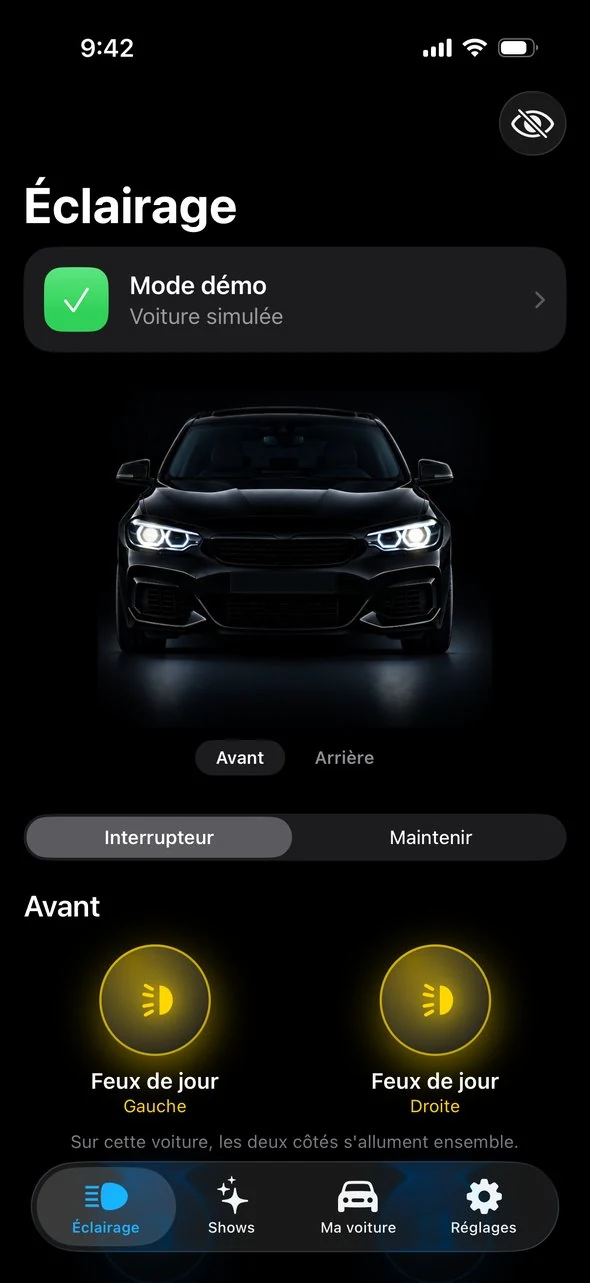
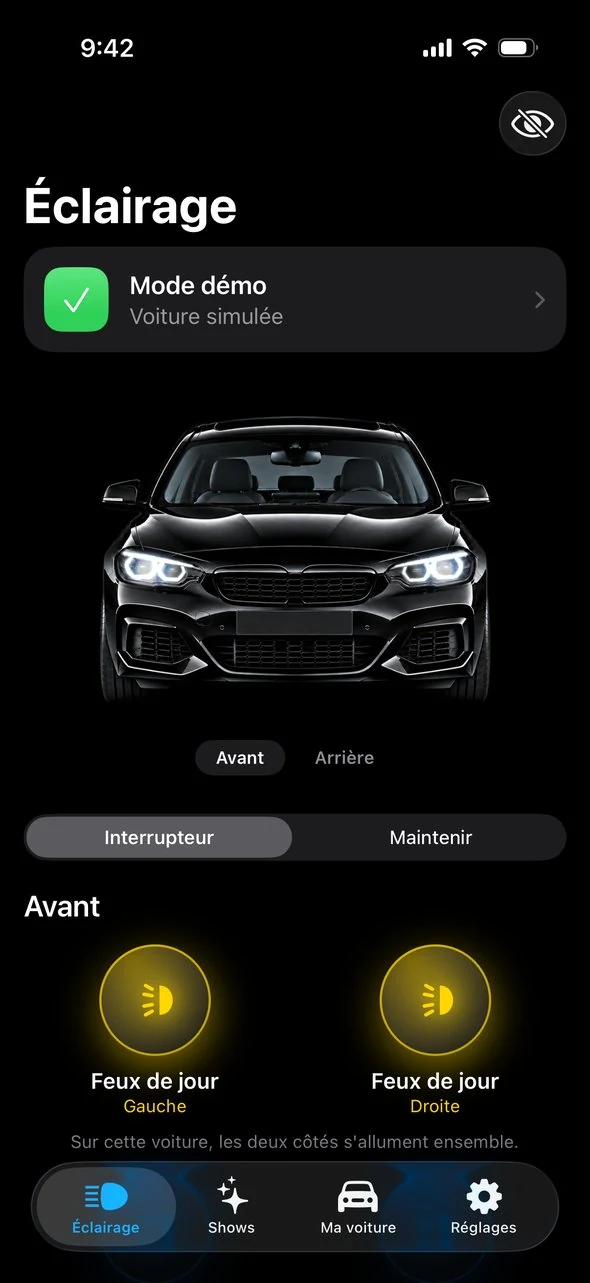
Captures de l'app à jour

Changed region(s): [[0.1525, 0.3118, 0.8542, 0.5612]]

diff --git a/index.html b/index.html
@@ -8,7 +8,7 @@
 <div class="demo"><div class="stage"><div class="car" role="img" aria-label="Voiture vue de face"><img class="base" src="assets/car/photo-front-off.webp?v=a5b0f169" alt=""><img class="lamp" data-id="f:drl-screenLeft" src="assets/car/photo-front-drl-screenLeft.jpg?v=72bc1099" alt="" decoding="async"><img class="lamp" data-id="f:drl-screenRight" src="assets/car/photo-front-drl-screenRight.jpg?v=9e6c1c24" alt="" decoding="async"><img class="lamp" data-id="f:low-screenLeft" src="assets/car/photo-front-low-screenLeft.jpg?v=c7bbe0fc" alt="" decoding="async"><img class="lamp" data-id="f:low-screenRight" src="assets/car/photo-front-low-screenRight.jpg?v=8be888bc" alt="" decoding="async"><img class="lamp" data-id="f:high-screenLeft" src="assets/car/photo-front-high-screenLeft.jpg?v=64660b8b" alt="" decoding="async"><img class="lamp" data-id="f:high-screenRight" src="assets/car/photo-front-high-screenRight.jpg?v=4de06d04" alt="" decoding="async"><img class="lamp" data-id="f:fog-screenLeft" src="assets/car/photo-front-fog-screenLeft.jpg?v=b853a492" alt="" decoding="async"><img class="lamp" data-id="f:fog-screenRight" src="assets/car/photo-front-fog-screenRight.jpg?v=548866b0" alt="" decoding="async"><img class="lamp" data-id="f:indicator-screenLeft" src="assets/car/photo-front-indicator-screenLeft.jpg?v=72b0d146" alt="" decoding="async"><img class="lamp" data-id="f:indicator-screenRight" src="assets/car/photo-front-indicator-screenRight.jpg?v=b08e6cd4" alt="" decoding="async"><img class="lamp" data-id="f:interior" src="assets/car/photo-front-interior.jpg?v=55bd01a7" alt="" decoding="async"></div><div class="car" role="img" aria-label="Voiture vue de dos"><img class="base" src="assets/car/photo-rear-off.webp?v=ff8c7cd8" alt=""><img class="lamp" data-id="r:tail-screenLeft" src="assets/car/photo-rear-tail-screenLeft.jpg?v=e7f3bf3d" alt="" decoding="async"><img class="lamp" data-id="r:tail-screenRight" src="assets/car/photo-rear-tail-screenRight.jpg?v=f12be747" alt="" decoding="async"><img class="lamp" data-id="r:indicator-screenLeft" src="assets/car/photo-rear-indicator-screenLeft.jpg?v=801bcd83" alt="" decoding="async"><img class="lamp" data-id="r:indicator-screenRight" src="assets/car/photo-rear-indicator-screenRight.jpg?v=35f259fb" alt="" decoding="async"><img class="lamp" data-id="r:reverse-screenLeft" src="assets/car/photo-rear-reverse-screenLeft.jpg?v=c3c540be" alt="" decoding="async"><img class="lamp" data-id="r:reverse-screenRight" src="assets/car/photo-rear-reverse-screenRight.jpg?v=d636bf31" alt="" decoding="async"><img class="lamp" data-id="r:brake" src="assets/car/photo-rear-brake.jpg?v=8d4208c7" alt="" decoding="async"><img class="lamp" data-id="r:fog" src="assets/car/photo-rear-fog.jpg?v=1d9a133c" alt="" decoding="async"><img class="lamp" data-id="r:interior" src="assets/car/photo-rear-interior.jpg?v=846085b4" alt="" decoding="async"></div><canvas class="fx" aria-hidden="true"></canvas></div><div class="pads"><button class="pbtn" data-l="drl" style="--c:#ffd60a" aria-pressed="false"><span class="pp"><svg viewBox="0 0 32 32" width="26" height="26" fill="none" stroke="currentColor" stroke-width="2.4" stroke-linecap="round" stroke-linejoin="round"><path d="M19 6c5.5 0 9 4.5 9 10s-3.5 10-9 10z" fill="currentColor"/><path d="M14 8.5 9.5 6M14 13 8.5 12M14 19 8.5 20M14 23.5 9.5 26"/></svg></span><span class="pl">Feux de jour</span></button><button class="pbtn" data-l="low" style="--c:#0a84ff" aria-pressed="false"><span class="pp"><svg viewBox="0 0 32 32" width="26" height="26" fill="none" stroke="currentColor" stroke-width="2.4" stroke-linecap="round" stroke-linejoin="round"><path d="M19 6c5.5 0 9 4.5 9 10s-3.5 10-9 10z" fill="currentColor"/><path d="M14 9 5 12M14 14.5 5 17.5M14 20 5 23"/></svg></span><span class="pl">Croisement</span></button><button class="pbtn" data-l="high" style="--c:#0a84ff" aria-pressed="false"><span class="pp"><svg viewBox="0 0 32 32" width="26" height="26" fill="none" stroke="currentColor" stroke-width="2.4" stroke-linecap="round" stroke-linejoin="round"><path d="M19 6c5.5 0 9 4.5 9 10s-3.5 10-9 10z" fill="currentColor"/><path d="M14 10H4M14 16H4M14 22H4"/></svg></span><span class="pl">Route</span></button><button class="pbtn" data-l="fog" style="--c:#ffd60a" aria-pressed="false"><span class="pp"><svg viewBox="0 0 32 32" width="26" height="26" fill="none" stroke="currentColor" stroke-width="2.4" stroke-linecap="round" stroke-linejoin="round"><path d="M19 6c5.5 0 9 4.5 9 10s-3.5 10-9 10z" fill="currentColor"/><path d="M14 10 4 12M14 16 4 18M14 22 4 24"/><path d="M9.5 6q2.5 3 0 6t0 6 0 6 0 6" stroke-width="2"/></svg></span><span class="pl">Antibrouillard</span></button><button class="pbtn" data-l="indL" style="--c:#ff9f0a" aria-pressed="false"><span class="pp"><svg viewBox="0 0 32 32" width="26" height="26" fill="none" stroke="currentColor" stroke-width="2.4" stroke-linecap="round" stroke-linejoin="round"><path d="M4 16 14 6v6h14v8H14v6z" fill="currentColor"/></svg></span><span class="pl">Clignotant G</span></button><button class="pbtn" data-l="indR" style="--c:#ff9f0a" aria-pressed="false"><span class="pp"><span style="display:inline-flex;transform:scaleX(-1)"><svg viewBox="0 0 32 32" width="26" height="26" fill="none" stroke="currentColor" stroke-width="2.4" stroke-linecap="round" stroke-linejoin="round"><path d="M4 16 14 6v6h14v8H14v6z" fill="currentColor"/></svg></span></span><span class="pl">Clignotant D</span></button><button class="pbtn" data-l="hazard" style="--c:#ff9f0a" aria-pressed="false"><span class="pp"><svg viewBox="0 0 32 32" width="26" height="26" fill="none" stroke="currentColor" stroke-width="2.4" stroke-linecap="round" stroke-linejoin="round"><path d="M16 3.5 29 27H3z"/><path d="M16 12.5 22.2 23H9.8z"/></svg></span><span class="pl">Warning</span></button><button class="pbtn" data-l="tail" style="--c:#ff453a" aria-pressed="false"><span class="pp"><svg viewBox="0 0 32 32" width="26" height="26" fill="none" stroke="currentColor" stroke-width="2.4" stroke-linecap="round" stroke-linejoin="round"><rect x="4" y="10" width="24" height="12" rx="4"/><rect x="8" y="14" width="16" height="4" rx="2" fill="currentColor"/></svg></span><span class="pl">Feux arrière</span></button><button class="pbtn" data-l="brake" style="--c:#ff453a" aria-pressed="false"><span class="pp"><svg viewBox="0 0 32 32" width="26" height="26" fill="none" stroke="currentColor" stroke-width="2.4" stroke-linecap="round" stroke-linejoin="round"><rect x="4" y="11" width="24" height="12" rx="4" fill="currentColor"/><path d="M9 6.5 7.5 4M16 6V3M23 6.5 24.5 4"/></svg></span><span class="pl">Stop</span></button><button class="pbtn" data-l="reverse" style="--c:#aeaeb2" aria-pressed="false"><span class="pp"><svg viewBox="0 0 32 32" width="26" height="26" fill="none" stroke="currentColor" stroke-width="2.4" stroke-linecap="round" stroke-linejoin="round"><rect x="5" y="5" width="22" height="22" rx="6"/><path d="M12.5 22.5v-13h5a3.8 3.8 0 0 1 0 7.6h-5M17.5 17l3.5 5.5" stroke-width="2.6"/></svg></span><span class="pl">Recul</span></button><button class="pbtn" data-l="inside" style="--c:#bfd9ff" aria-pressed="false"><span class="pp"><svg viewBox="0 0 32 32" width="26" height="26" fill="none" stroke="currentColor" stroke-width="2.4" stroke-linecap="round" stroke-linejoin="round"><path d="M5 9h22"/><path d="M9 9.5h14a7 7 0 0 1-14 0z" fill="currentColor"/><path d="M16 21v5M10 19.5l-2.5 4M22 19.5l2.5 4"/></svg></span><span class="pl">Intérieur</span></button><div class="showrow"><div class="sh">Shows</div><div class="shpads"><button class="pbtn" data-show="pulsation" style="--c:#ff9f0a" aria-pressed="false"><span class="pp"><svg viewBox="0 0 32 32" width="28" height="28" fill="none" stroke="currentColor" stroke-width="2.4" stroke-linecap="round" stroke-linejoin="round"><path d="M3 16h6l3-7 4.5 15 3.5-10 2 2h7"/></svg></span><span class="pl">Pulsation</span></button><button class="pbtn" data-show="double" style="--c:#0a84ff" aria-pressed="false"><span class="pp"><svg viewBox="0 0 32 32" width="28" height="28" fill="none" stroke="currentColor" stroke-width="2.4" stroke-linecap="round" stroke-linejoin="round"><path d="M11 7l-5 9h4.5l-1.5 7 5.5-9.5h-4.5z" fill="currentColor"/><path d="M21 7l-5 9h4.5l-1.5 7 5.5-9.5h-4.5z" fill="currentColor"/></svg></span><span class="pl">Double flash</span></button><button class="pbtn" data-show="bienvenue" style="--c:#30d158" aria-pressed="false"><span class="pp"><svg viewBox="0 0 32 32" width="28" height="28" fill="none" stroke="currentColor" stroke-width="2.4" stroke-linecap="round" stroke-linejoin="round"><path d="M5 22v-6l3-6h16l3 6v6z"/><circle cx="10" cy="17" r="2" fill="currentColor"/><circle cx="22" cy="17" r="2" fill="currentColor"/><path d="M6.5 22v3M25.5 22v3M16 2v3M10 4l1.5 2M22 4l-1.5 2"/></svg></span><span class="pl">Bienvenue</span></button><button class="pbtn" data-show="hante" data-theme-only="halloween" style="--c:#ff7a00" aria-pressed="false" hidden><span class="pp"><svg viewBox="0 0 32 32" width="28" height="28" fill="none" stroke="currentColor" stroke-width="2.4" stroke-linejoin="round"><path d="M7 28V14a9 9 0 0 1 18 0v14l-3-2.5-3 2.5-3-2.5-3 2.5-3-2.5z" fill="currentColor" fill-opacity=".25"/><circle cx="12.5" cy="14" r="1.8" fill="currentColor"/><circle cx="19.5" cy="14" r="1.8" fill="currentColor"/></svg></span><span class="pl">Hanté</span></button><button class="pbtn" data-show="guirlande" data-theme-only="noel" style="--c:#ff453a" aria-pressed="false" hidden><span class="pp"><svg viewBox="0 0 32 32" width="28" height="28" fill="currentColor"><path d="M16 3l2.6 7.4L26 13l-7.4 2.6L16 23l-2.6-7.4L6 13l7.4-2.6z"/><path d="M25 19l1.2 3.3 3.3 1.2-3.3 1.2L25 28l-1.2-3.3-3.3-1.2 3.3-1.2z"/><path d="M7 20l.9 2.4 2.4.9-2.4.9L7 26.6l-.9-2.4-2.4-.9 2.4-.9z"/></svg></span><span class="pl">Guirlande</span></button><button class="pbtn" data-show="ruban" data-theme-only="octobre-rose" style="--c:#ff3796" aria-pressed="false" hidden><span class="pp"><svg viewBox="0 0 32 32" width="28" height="28" fill="none" stroke="currentColor" stroke-width="2.6" stroke-linecap="round" stroke-linejoin="round"><path d="M12 29l7-12c2-3.5 2.5-6 1-8.5a4.6 4.6 0 0 0-8 0c-1.5 2.5-1 5 1 8.5l7 12"/></svg></span><span class="pl">Ruban</span></button><button class="pbtn" data-show="printemps" data-theme-only="paques" style="--c:#ff96be" aria-pressed="false" hidden><span class="pp"><svg viewBox="0 0 32 32" width="28" height="28" fill="currentColor"><ellipse cx="16" cy="9.5" rx="4.2" ry="6" transform="rotate(0 16 16)"/><ellipse cx="16" cy="9.5" rx="4.2" ry="6" transform="rotate(72 16 16)"/><ellipse cx="16" cy="9.5" rx="4.2" ry="6" transform="rotate(144 16 16)"/><ellipse cx="16" cy="9.5" rx="4.2" ry="6" transform="rotate(216 16 16)"/><ellipse cx="16" cy="9.5" rx="4.2" ry="6" transform="rotate(288 16 16)"/><circle cx="16" cy="16" r="3.2" fill="#1c1c1e"/></svg></span><span class="pl">Printemps</span></button><button class="pbtn" data-show="compte" data-theme-only="nouvel-an" style="--c:#ffc43c" aria-pressed="false" hidden><span class="pp"><svg viewBox="0 0 32 32" width="28" height="28" fill="none" stroke="currentColor" stroke-width="2.4" stroke-linecap="round"><circle cx="16" cy="17" r="11"/><path d="M16 11v6l4 3M13 3h6"/><path d="M26 7l2-2"/></svg></span><span class="pl">Compte à rebours</span></button><button class="pbtn" data-show="coeur" data-theme-only="saint-valentin" style="--c:#ff2d55" aria-pressed="false" hidden><span class="pp"><svg viewBox="0 0 32 32" width="28" height="28" fill="currentColor"><path d="M16 27C9 22.5 4 17.5 4 11.5C4 7.5 7 5 10 5C13 5 15 7 16 9C17 7 19 5 22 5C25 5 28 7.5 28 11.5C28 17.5 23 22.5 16 27z"/></svg></span><span class="pl">Cœur</span></button></div><button class="pbtn showbtn" data-show="mix" style="--c:#bf5af2" aria-pressed="false"><span class="pp"><svg viewBox="0 0 32 32" width="22" height="22" fill="none" stroke="currentColor" stroke-width="2.4" stroke-linecap="round" stroke-linejoin="round"><path d="M3 16h6l3-7 4.5 15 3.5-10 2 2h7"/></svg></span><span class="pl">Lancer un show</span></button><div class="shmore">+ 10 autres shows dans l'app, et ils suivent ta musique.</div></div></div><div class="hint">Touche une pastille : les feux s'allument comme dans l'app.</div></div></div></div>
 <section><div class="wrap"><h2>Tes feux, ton style.</h2><p class="sub">Pensée pour les passionnés, faite pour briller la nuit.</p><div class="features"><div class="feat"><div class="past" style="width:60px;height:60px;color:#0a84ff;background:radial-gradient(120% 120% at 30% 15%, #0a84ff66, var(--pb) 75%);box-shadow:0 0 0 1.5px #0a84ffb3 inset,0 6px 22px -4px #0a84ff99"><div style="display:flex;filter:drop-shadow(0 0 6px #0a84ff)"><svg viewBox="0 0 32 32" width="30" height="30" fill="none" stroke="#0a84ff" stroke-width="2.4" stroke-linecap="round" stroke-linejoin="round"><path d="M19 6c5.5 0 9 4.5 9 10s-3.5 10-9 10z" fill="#0a84ff"/><path d="M14 9 5 12M14 14.5 5 17.5M14 20 5 23"/></svg></div></div><h3>Tes feux, en direct</h3><p>Croisement, route, antibrouillards, stop, recul, et même l'éclairage intérieur. Touche une pastille, le feu s'allume. Mode « Maintenir » à plusieurs doigts.</p></div><div class="feat"><div class="past" style="width:60px;height:60px;color:#ff375f;background:radial-gradient(120% 120% at 30% 15%, #ff375f66, var(--pb) 75%);box-shadow:0 0 0 1.5px #ff375fb3 inset,0 6px 22px -4px #ff375f99"><div style="display:flex;filter:drop-shadow(0 0 6px #ff375f)"><svg viewBox="0 0 32 32" width="28" height="28" stroke="#ff375f" stroke-width="2.6" stroke-linecap="round"><path d="M4 13v6M9 9v14M14 5v22M19 10v12M24 7v18M28.5 13v6"/></svg></div></div><h3>Show Libre</h3><p>Pas de séquence : chaque feu réagit à ta musique. Les basses font battre les feux arrière, la voix le croisement, et au drop toute la voiture s'embrase. Calme, normal ou déchaîné.</p></div><div class="feat"><div class="past" style="width:60px;height:60px;color:#ff9f0a;background:radial-gradient(120% 120% at 30% 15%, #ff9f0a66, var(--pb) 75%);box-shadow:0 0 0 1.5px #ff9f0ab3 inset,0 6px 22px -4px #ff9f0a99"><div style="display:flex;filter:drop-shadow(0 0 6px #ff9f0a)"><svg viewBox="0 0 32 32" width="30" height="30" fill="none" stroke="#ff9f0a" stroke-width="2.4" stroke-linecap="round" stroke-linejoin="round"><path d="M3 16h6l3-7 4.5 15 3.5-10 2 2h7"/></svg></div></div><h3>17 shows prêts</h3><p>Pulsation, double flash, gyrophare, vague, bienvenue… À suivre au tempo ou sur ta musique, au micro. Et des shows spéciaux pour Halloween et Noël.</p></div><div class="feat"><div class="past" style="width:60px;height:60px;color:#bf5af2;background:radial-gradient(120% 120% at 30% 15%, #bf5af266, var(--pb) 75%);box-shadow:0 0 0 1.5px #bf5af2b3 inset,0 6px 22px -4px #bf5af299"><div style="display:flex;filter:drop-shadow(0 0 6px #bf5af2)"><svg viewBox="0 0 32 32" width="28" height="28" fill="#bf5af2"><rect x="4" y="5" width="6" height="6" rx="1.5"/><rect x="13" y="5" width="6" height="6" rx="1.5" opacity=.35/><rect x="22" y="5" width="6" height="6" rx="1.5"/><rect x="4" y="14" width="6" height="6" rx="1.5" opacity=.35/><rect x="13" y="14" width="6" height="6" rx="1.5"/><rect x="22" y="14" width="6" height="6" rx="1.5" opacity=.35/><rect x="4" y="23" width="6" height="6" rx="1.5"/><rect x="13" y="23" width="6" height="6" rx="1.5" opacity=.35/><rect x="22" y="23" width="6" height="6" rx="1.5"/></svg></div></div><h3>Crée tes shows</h3><p>Une grille feux × pas pour composer tes séquences, ou enregistre en direct ce que tu joues.</p></div><div class="feat"><div class="past" style="width:60px;height:60px;color:#64d2ff;background:radial-gradient(120% 120% at 30% 15%, #64d2ff66, var(--pb) 75%);box-shadow:0 0 0 1.5px #64d2ffb3 inset,0 6px 22px -4px #64d2ff99"><div style="display:flex;filter:drop-shadow(0 0 6px #64d2ff)"><svg viewBox="0 0 32 32" width="28" height="28" fill="none" stroke="#64d2ff" stroke-width="2.4" stroke-linecap="round" stroke-linejoin="round"><rect x="8" y="8" width="16" height="16" rx="5"/><path d="M11 8l1-5h8l1 5M11 24l1 5h8l1-5"/><path d="M16 12.5v4l2.5 1.5"/></svg></div></div><h3>Sur ton Apple Watch</h3><p>Lance le Show Libre, le warning ou un appel de phares depuis ton poignet. La couronne règle l'intensité, Stop toujours sous le doigt.</p></div><div class="feat"><div class="past" style="width:60px;height:60px;color:#ffd60a;background:radial-gradient(120% 120% at 30% 15%, #ffd60a66, var(--pb) 75%);box-shadow:0 0 0 1.5px #ffd60ab3 inset,0 6px 22px -4px #ffd60a99"><div style="display:flex;filter:drop-shadow(0 0 6px #ffd60a)"><svg viewBox="0 0 32 32" width="28" height="28" fill="#ffd60a"><rect x="4" y="4" width="11" height="11" rx="3"/><rect x="17" y="4" width="11" height="11" rx="3" opacity=".45"/><rect x="4" y="17" width="24" height="11" rx="3" opacity=".7"/></svg></div></div><h3>Widgets et écran verrouillé</h3><p>Le Show Libre en un geste depuis l'écran d'accueil ou le Centre de contrôle. Pendant un show, Stop sur l'écran verrouillé et dans la Dynamic Island.</p></div><div class="feat"><div class="past" style="width:60px;height:60px;color:#ffffff;background:radial-gradient(120% 120% at 30% 15%, #ffffff66, var(--pb) 75%);box-shadow:0 0 0 1.5px #ffffffb3 inset,0 6px 22px -4px #ffffff99"><div style="display:flex;filter:drop-shadow(0 0 6px #ffffff)"><svg viewBox="0 0 32 32" width="30" height="30" fill="none" stroke="#ffffff" stroke-width="2.4" stroke-linecap="round" stroke-linejoin="round"><path d="M19 6c5.5 0 9 4.5 9 10s-3.5 10-9 10z" fill="#ffffff"/><path d="M14 8.5 9.5 6M14 13 8.5 12M14 19 8.5 20M14 23.5 9.5 26"/></svg></div></div><h3>Ta voiture à l'écran</h3><p>Vue avant et arrière réalistes qui s'allument feu par feu, en même temps que la vraie.</p></div><div class="feat"><div class="past" style="width:60px;height:60px;color:#30b0c7;background:radial-gradient(120% 120% at 30% 15%, #30b0c766, var(--pb) 75%);box-shadow:0 0 0 1.5px #30b0c7b3 inset,0 6px 22px -4px #30b0c799"><div style="display:flex;filter:drop-shadow(0 0 6px #30b0c7)"><svg viewBox="0 0 32 32" width="30" height="30" fill="none" stroke="#30b0c7" stroke-width="2.4" stroke-linecap="round" stroke-linejoin="round"><path d="M5 22v-6l3-6h16l3 6v6z"/><circle cx="10" cy="17" r="2" fill="#30b0c7"/><circle cx="22" cy="17" r="2" fill="#30b0c7"/><path d="M6.5 22v3M25.5 22v3M16 2v3M10 4l1.5 2M22 4l-1.5 2"/></svg></div></div><h3>Ma voiture</h3><p>Batterie, modules détectés, feux qui répondent. Et un outil qui cherche les codes des feux pas encore pris en charge.</p></div><div class="feat"><div class="past" style="width:60px;height:60px;color:#30d158;background:radial-gradient(120% 120% at 30% 15%, #30d15866, var(--pb) 75%);box-shadow:0 0 0 1.5px #30d158b3 inset,0 6px 22px -4px #30d15899"><div style="display:flex;filter:drop-shadow(0 0 6px #30d158)"><svg viewBox="0 0 32 32" width="28" height="28" fill="none" stroke="#30d158" stroke-width="2.4" stroke-linecap="round" stroke-linejoin="round"><path d="M16 3 27 7v8c0 7-5 12-11 14C10 27 5 22 5 15V7z"/><path d="m11 16 4 4 7-8"/></svg></div></div><h3>Sans risque</h3><p>Aucun codage modifié, commandes temporaires seulement. Le show s'arrête tout seul si la voiture se met à rouler, et la voiture reprend la main.</p></div></div></div></section>
 <section class="band"><div class="wrap"><h2>Pensée pour la nuit.</h2><p class="sub">Les écrans de l'app.</p>
-<div class="shots"><img src="assets/img/06-eclairage.webp?v=0d4fcc84" alt="Écran Éclairage de l&#x27;app, vue avant" width="590" height="1283" loading="lazy"><img src="assets/img/14-shows.webp?v=486334cc" alt="Écran Shows et ses préréglages" width="590" height="1283" loading="lazy"><img src="assets/img/15-lecteur.webp?v=2af81787" alt="Lecteur de show, tempo et tap tempo" width="590" height="1283" loading="lazy"><img src="assets/img/26-ma-voiture.webp?v=670c19ae" alt="Onglet Ma voiture : batterie, feux, outils" width="590" height="1283" loading="lazy"></div></div></section>
+<div class="shots"><img src="assets/img/06-eclairage.webp?v=6e80bc9d" alt="Écran Éclairage de l&#x27;app, vue avant" width="590" height="1283" loading="lazy"><img src="assets/img/14-shows.webp?v=486334cc" alt="Écran Shows et ses préréglages" width="590" height="1283" loading="lazy"><img src="assets/img/15-lecteur.webp?v=737d8f10" alt="Lecteur de show, tempo et tap tempo" width="590" height="1283" loading="lazy"><img src="assets/img/26-ma-voiture.webp?v=05b164ce" alt="Onglet Ma voiture : batterie, feux, outils" width="590" height="1283" loading="lazy"></div></div></section>
 <section><div class="wrap"><h2>Aussi au poignet.</h2><p class="sub">L'app Apple Watch passe par ton iPhone, qui reste connecté à la voiture et écoute la musique.</p>
 <div class="shots watch"><img src="assets/img/50-montre-home.webp?v=9a8beaba" alt="Apple Watch : accueil, Show Libre et actions rapides" loading="lazy"><img src="assets/img/50-montre-playing.webp?v=38f48e09" alt="Apple Watch : show en cours, intensité à la couronne" loading="lazy"><img src="assets/img/50-montre-shortcuts.webp?v=59645dad" alt="Apple Watch : raccourcis vers les shows" loading="lazy"></div></div></section>
 <section><div class="wrap"><h2>Prêt en 3 étapes.</h2><p class="sub">Il suffit d'un adaptateur OBD Bluetooth.</p>
